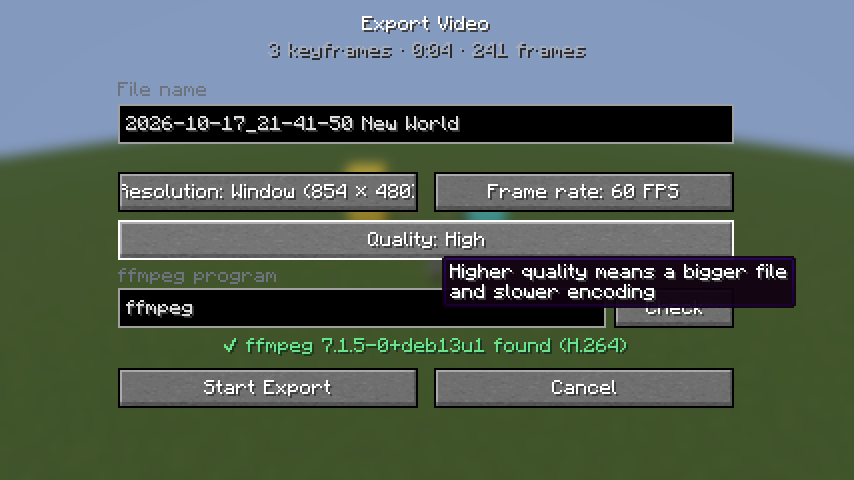
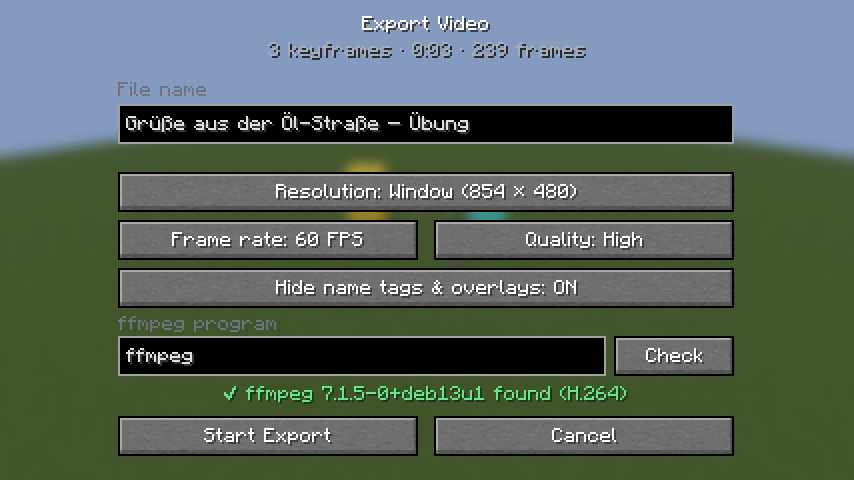
Docs for 1.1.0: README, ARCHITECTURE, PROGRESS, changelog, descriptions, gallery; version 1.1.0

Changed region(s): [[0.1218, 0.3438, 0.9438, 0.9688], [0.1522, 0.2188, 0.548, 0.2812], [0.5176, 0.0938, 0.6089, 0.125]]

diff --git a/README.md b/README.md
@@ -10,7 +10,9 @@ moment from any angle, fly cinematic camera paths and export them to MP4, all wi
   - Press **M** to add a marker ("that was a great moment"). Markers appear on the timeline.
   - Recording runs fully off-thread: packets are copied into pooled buffers and compressed and written by a background thread.
     When nothing is being recorded the cost is one volatile read per packet.
-  - If the game crashes, unfinished recordings are recovered on the next start.
+  - If the game crashes, unfinished recordings are recovered on the next start (tested by killing the game with
+    `SIGKILL` in the middle of a recording, see *Testing*).
+  - Pressing *Stop Recording* when nothing is recording tells you why and how to start one.
 - **Replay browser** (film-strip button on the title screen):
   - Thumbnails, world/server name, date, duration, size and marker count.
   - Watch, rename, delete (with confirmation) and open the folder.
@@ -18,6 +20,9 @@ moment from any angle, fly cinematic camera paths and export them to MP4, all wi
   - Play/pause, speed from 0.1× to 16×, a timeline you can scrub, and jumps of ±5 s.
   - Free camera with smooth flying.
   - **Click an entity or player to follow it**. Shift goes back to the free camera.
+  - **Everything works while paused**: look around with the mouse, fly, click entities to follow them. The world stays
+    frozen (like a paused singleplayer game) and the replay time does not move.
+  - Vanilla tutorial / onboarding toasts ("Press WASD", social interactions, "unsecure server") are not shown in replays.
 - **Camera path editor** (**O**):
   - Add keyframes with **I**. Each keyframe stores position, rotation, FOV and **roll**.
   - Catmull-Rom-style (non-uniform Hermite) splines give smooth motion even when keyframes are unevenly spaced.
@@ -25,6 +30,13 @@ moment from any angle, fly cinematic camera paths and export them to MP4, all wi
   - Click a keyframe to jump to it. Delete removes it.
 - **Video export** to MP4 (H.264 through `libx264`, with an automatic MPEG-4 fallback):
   - Rendered frame by frame at a fixed FPS, so output is smooth even on a slow PC.
+  - **Native resolution**: 1080p, 1440p or 4K are rendered at that size by the game itself (off-screen), whatever the
+    window size. The window just shows a scaled preview, and resizing it during an export is harmless.
+  - **Clean frames** (on by default): name tags, the block outline, the hand and debug views (hitboxes, chunk borders)
+    are left out of the video. HUD and menus are never in the video.
+  - Works with **Iris shader packs** (tested with MakeUp UltraFast on OpenGL).
+  - **ffmpeg is found automatically** in the usual places (PATH, WinGet, Scoop, Chocolatey, `C:\ffmpeg`, Homebrew,
+    MacPorts, or an `ffmpeg` folder inside `.minecraft`).
   - A progress screen shows ETA and a cancel button.
 - **Config screen** (also reachable through Mod Menu). English and German translations (German fully translated, including errors and Mod Menu texts; a unit test fails the build if any key is missing). Umlauts in world names, replay names and video file names work.
 
@@ -47,11 +59,13 @@ In the editor, **right-drag** looks around and **WASD** flies.
 ## Install
 
 1. Install Fabric Loader **0.19.5+** for Minecraft **26.3**, and **Fabric API 0.163.0+26.3**.
-2. Put `streamer-replay-mod-1.0.0.jar` into `.minecraft/mods`.
+2. Put `streamer-replay-mod-1.1.0.jar` into `.minecraft/mods`.
 3. Optional:
    - [Mod Menu](https://modrinth.com/mod/modmenu) to open the config from the mod list.
-   - **ffmpeg** for video export: either on your `PATH`, or set its full path in the config screen. The export screen
-     tells you whether ffmpeg was found.
+   - **ffmpeg** for video export. Install it the usual way (`winget install ffmpeg`, `brew install ffmpeg`, your
+     Linux package manager) or unzip it into `.minecraft/ffmpeg/`. It is found automatically, even when the
+     launcher does not see your terminal's PATH. You can also enter the full path. The export screen tells you
+     whether ffmpeg was found.
 4. Java 25 is required, the same as Minecraft 26.3 itself.
 
 Files are stored in:
@@ -61,26 +75,32 @@ Files are stored in:
 ## Compatibility
 
 - **Injections only**: no `@Overwrite`, no `@Redirect`. A small mixin set covers the connection tap, the login hook, the
-  game timer during replays, camera pose/FOV/roll, a post-render frame hook and the pause menu.
+  game timer during replays, camera pose/FOV/roll, a post-render frame hook, the pause menu, the render size during
+  export, the clean-frame switches (name tags, block outline, debug renderer) and toast filtering in replays.
 - **Idle cost is near zero**. Every hook first checks one static field and returns immediately when no replay is open.
 - **Mod Menu** is an optional integration. It is loaded only when present.
 - **Sodium 0.9.3-beta.1, Lithium 0.26.2 and Mod Menu 21.0.0** were tested together with this mod. The full end-to-end
   test passes with them installed (record, watch, seek, follow, camera path, MP4 export, dedicated-server recording).
-- **Iris 1.11.7** has **not been tested yet**. The test machine has no OpenGL driver, and Iris requires OpenGL.
-  The mod is designed to work with Iris:
-  - The camera is driven through `Camera` injections.
-  - The path preview is a 2D overlay that does not depend on the world renderer.
-  - Export reads back the final image after post effects.
+- **Iris 1.11.7 + Sodium 0.9.3-beta.1 with the MakeUp UltraFast 9.5g shader pack** pass the same end-to-end test on
+  OpenGL (Mesa llvmpipe software rendering, so it is slow but real): recording, replay, seeking, following, paused
+  controls, and MP4 export at window size and native 1080p with the shader visible in the frames.
+  Complementary Reimagined was downloaded too but is not part of the test run.
 - Report problems with an exact mod list.
 - The original *ReplayMod* is marked as `breaks`, because both mods tap the same network pipeline.
 
 ## Known limitations
 
-- A replay only starts at join time. You can't start recording in the middle of a session yet, except by rejoining.
-- Videos are rendered at window resolution and then scaled by ffmpeg. For crisp 1080p, make the window at least 1080p.
+- **Recording starts when you join a world.** Starting in the middle of a session is not supported on purpose: a
+  replay needs the world exactly as the server sent it at login (registries, chunks, entities), and rebuilding that
+  from the client's partial copy would give replays that look right but break when you seek. Leave and rejoin to
+  record; the game tells you this if you press *Stop Recording* while nothing is recorded.
 - Replays are only compatible with the protocol version they were recorded with (they are tagged with it).
-- Seeking backwards rebuilds the world from the start, then fast-forwards. On long replays this takes a moment, and
-  an overlay is shown while it runs.
+- **Seeking backwards rebuilds the world from the start**, then fast-forwards. Measured on the test machine (software
+  rendering): about 0.3–0.5 s for a 15 s and for a 93 s busy replay (40 mobs). Almost all of that is the fixed
+  reconnect and level-load cost; delivering packets takes about 1.3 ms per recorded second, so a one-hour replay
+  should take roughly 5 s (an estimate, not measured). Periodic checkpoints were considered and rejected: the client
+  world cannot be snapshotted and restored safely without re-creating every piece of client state.
+- The largest export size is limited by the GPU's maximum texture size (4K works on every current GPU).
 
 ## Is this safe? How can I check?
 
@@ -94,16 +114,16 @@ You don't need to take anyone's word for it:
 - **The only program it starts is ffmpeg**, on your own PC, and only when you click *Export Video*. You
   install ffmpeg yourself and can choose its path in the settings.
 - **Scan the jar yourself.** Go to <https://www.virustotal.com>, choose *File*, and upload
-  `streamer-replay-mod-1.0.0.jar`. Dozens of virus scanners check it at once. You can also paste the checksum
+  `streamer-replay-mod-1.1.0.jar`. Dozens of virus scanners check it at once. You can also paste the checksum
   below into VirusTotal's *Search* tab to see earlier scans of exactly this file.
 - **Make sure you have the original file.** Compare its SHA-256 checksum with the one published here and in
   the release notes:
-  - **Windows** (PowerShell): `Get-FileHash streamer-replay-mod-1.0.0.jar -Algorithm SHA256`
-  - **macOS / Linux**: `shasum -a 256 streamer-replay-mod-1.0.0.jar` or `sha256sum streamer-replay-mod-1.0.0.jar`
+  - **Windows** (PowerShell): `Get-FileHash streamer-replay-mod-1.1.0.jar -Algorithm SHA256`
+  - **macOS / Linux**: `shasum -a 256 streamer-replay-mod-1.1.0.jar` or `sha256sum streamer-replay-mod-1.1.0.jar`
 
   ```
-  SHA-256 (streamer-replay-mod-1.0.0.jar)
[1 lines of base64/hex data omitted]
+  SHA-256 (streamer-replay-mod-1.1.0.jar)
+  SHA256_PLACEHOLDER
   ```
 
   If the value differs, the file is not the official release. Delete it and download from the official
@@ -116,6 +136,26 @@ export JAVA_HOME=/path/to/java-25
 ./gradlew build                 # jar in build/libs, runs unit tests
 ./gradlew runClientGameTest     # full end-to-end client test (needs a display, e.g. Xvfb)
 ```
+
+## Testing
+
+What the automated tests cover (all run on Linux under Xvfb):
+
+- `./gradlew build`: unit tests for the file format, camera paths, time formatting, ffmpeg discovery on
+  Windows/macOS/Linux (simulated file systems), and a check that German has every English key.
+- `./gradlew runClientGameTest`: one end-to-end client test: records a singleplayer world, renames, opens, seeks,
+  follows entities, uses mouse look/flight/clicks while paused, builds a camera path, exports MP4 at window size and
+  at native 1080p (checked with ffprobe and a sharpness measurement), exports with clean frames on and off and
+  compares the frames, records a dedicated server, and checks that every label fits its button.
+  - `-PgametestLang=de_de` runs it in German.
+  - `-PcompatMods=a.jar,b.jar` adds other mods (Sodium, Lithium, Mod Menu, Iris).
+  - `-PshaderPack=pack.zip` installs and enables a shader pack (with Iris). On a box without a GPU this needs
+    `SDL_VIDEO_FORCE_EGL=1 LIBGL_ALWAYS_SOFTWARE=1` (Mesa llvmpipe).
+  - `-PgametestProps=streamerreplay.gametest.mode=seekbench` records a 93 s replay and measures seeks.
+- `scripts/crash-recovery-test.sh`: records, kills the game with `SIGKILL`, starts it again and checks the replay
+  was recovered with its marker and plays.
+
+Not tested automatically: real Windows and macOS machines, real GPUs (NVIDIA/AMD/Intel/Apple), Vulkan with Iris.
 
 ## License
 

diff --git a/PROGRESS.md b/PROGRESS.md
@@ -4,30 +4,34 @@ Target: Minecraft 26.3, Fabric Loader 0.19.5, Fabric API 0.163.0+26.3, Loom 1.18
 Build: `export JAVA_HOME=/usr/lib/jvm/java-25-openjdk-amd64; ./gradlew build --no-daemon`. The jar is copied to `dist/`.
 
 E2E test: `DISPLAY=:99 timeout 900 ./gradlew runClientGameTest --no-daemon`. Add `-PcompatMods=a.jar,b.jar` for a compat run.
-Screenshots: `build/run/clientGameTest/screenshots`, copied to `screenshots/` (and `screenshots/compat-sodium-lithium-modmenu/`).
+Screenshots: `build/run/clientGameTest/screenshots`, copied to `screenshots/`, `screenshots/de_de/`, `screenshots/compat-*/`, `screenshots/crash-recovery/`.
 
-## Status: release candidate 1.0.0
-- Unit tests: 21 (format, recovery, splines, time format, translations: de_de has every en_us key, matching placeholders, every key used in code exists).
-- The e2e client gametest passes on its own and with Sodium 0.9.3-beta.1, Lithium 0.26.2 and Mod Menu 21.0.0. It covers:
-  - SP auto-record, marker, thumbnail, browser, settings
-  - replay open, seek forward/back, click-ray follow and unfollow, Esc replay menu
-  - camera path (3 keyframes) and editor overlay
-  - MP4 export (H.264) to DONE, video > 10 KB
-  - dedicated-server recording (TCP, compression 64) and its playback containing server-placed blocks
-  - return to the title screen
-  - every main screen checks that each label fits its widget and that widgets do not overlap (browser, rename, settings, replay menu, editor, export, export done)
-  - umlaut names: world "Prüfwelt Äöü ß", rename to "Grüße aus der Öl-Straße – Übung", export to "Kamerafahrt Übung.mp4"
-- German run (`-PgametestLang=de_de`) passes too, also with Sodium + Lithium + Mod Menu. Screenshots: `screenshots/de_de/`, `screenshots/compat-sodium-lithium-modmenu-de_de/`.
-- Docs: README (features, controls, install, safety/checksum, compat, limits), ARCHITECTURE.md, LICENSE (MIT).
-- Publish kit: `publish/` (descriptions EN + DE short, summary, tags, changelog, gallery, 512px icon, jar, SHA256SUMS).
+## Status: 1.1.0 (perfection pass done)
+- Unit tests: 31 (format, recovery, splines, time format, translations, ffmpeg discovery for Windows/macOS/Linux).
+- E2E client gametest passes in four configurations (runs of 2026-10-17, 23:13–23:20 CEST):
+  vanilla EN, vanilla DE (`-PgametestLang=de_de`, label fit ok on every screen), Sodium 0.9.3-beta.1 + Lithium 0.26.2 +
+  Mod Menu 21.0.0, and Iris 1.11.7 + Sodium + MakeUp UltraFast 9.5g on OpenGL 4.6 (Mesa llvmpipe, `SDL_VIDEO_FORCE_EGL=1`).
+  On top of the 1.0.0 coverage it checks:
+  - paused replay: mouse look (SDL relative motion event), W flight, real left click follows the pig, Shift unfollows,
+    replay time unchanged, backward seek while paused leaves the loading screen and stays paused
+  - onboarding toasts suppressed in replays
+  - "Stop Recording" without recording shows the rejoin hint
+  - native 1080p export from an 854×480 window, window resized to 700×520 mid-export, harness screenshot (extra render
+    at window size) mid-export: ffprobe `h264,1920,1080`; sharpness (Laplacian variance) native 123.8 vs same frame
+    through 480p 16.6 (ratio 7.5; with Iris 3.4); mean luma > 40 and sky colour known after the world rebuild
+  - clean frames: hitboxes + name tag on vs. off, ~7500 px differ (5562 with Iris); frames in `screenshots/export-evidence/`
+- `scripts/crash-recovery-test.sh`: SIGKILL of the game JVM mid-recording, restart, recovered `.sreplay` with world
+  name and marker, sidecars cleaned up, replay plays (13 s). Passes.
+- Seek benchmark (`-PgametestProps=streamerreplay.gametest.mode=seekbench`, 93 s replay, 40 mobs, 343 KB):
+  98%→90% 511 ms, 98%→50% 441 ms, 98%→10% 436 ms, 10%→98% 136 ms (25 ms budget); a 100 ms budget was not faster.
 
 ## Not tested / open
-- Iris: the box has no GLX visual (OpenGL), so Iris aborts at startup in this environment, with or without this mod.
-  The game itself ran on the Vulkan backend (llvmpipe).
-- The OpenGL backend in general (same reason); all runs used Vulkan.
-- Real mouse clicks and key presses: the test drives the same code paths from code.
-- Windows/macOS ffmpeg discovery (only Linux ffmpeg 7.1.5 used).
-- Very long replays (hours): reading is streamed, but seeking backwards rebuilds from the start, which costs time.
+- Real Windows/macOS machines (ffmpeg discovery is unit-tested with simulated disks only).
+- Real GPUs; all runs used software rendering (Vulkan llvmpipe, or OpenGL llvmpipe for Iris).
+- Iris on Vulkan, other shader packs than MakeUp UltraFast (Complementary is downloaded but not run).
+- 1440p/4K exports (same code path as 1080p, only 1080p was run).
+- Replays of hours: seek time extrapolated (~5 s/hour), not measured.
+- The compat DE screenshot folder (`screenshots/compat-sodium-lithium-modmenu-de_de/`) is from the 1.0.0 run.
 
 ## Review log
 1. **After first compile and e2e run.**
@@ -69,7 +73,23 @@ Screenshots: `build/run/clientGameTest/screenshots`, copied to `screenshots/` (a
    - Overflow found and fixed: settings "Serveradresse speichern" (became "Server-IP speichern"). In the editor, "Replay beenden" moved to the top right and buttons now size to their labels. On the export screen, resolution got its own full-width row.
    - The editor hint moves up one line if it would collide with the path info.
 
-## Publishing (needs the user)
-- GitHub: not created or pushed by the agent (needs explicit user approval). Command:
-  `gh repo create robb-devo/streamer-replay-mod --private --source=/workspace/streamer-replay-mod --remote=origin --push`
-- Modrinth/CurseForge: the user uploads `publish/streamer-replay-mod-1.0.0.jar` with the texts in `publish/`.
+7. **1.1.0 perfection pass** (each item reviewed after implementing it).
+   - Paused interaction: replaced the 20 Hz "UI ticks" with real frozen game ticks (paused-tick semantics). Found and
+     fixed: the left click was eaten by vanilla's tick before our handler (now handled in the pre-attack callback).
+   - Clean frames: the first version had no effect because the new mixins were not registered; caught by the
+     frame-comparison test.
+   - Native resolution: found a black sky after the world rebuild at the start of an export (the sky/fog probe is
+     only ticked in unpaused ticks) and fixed it; found that a render at another size (screenshot) failed the
+     export and made it skip such renders instead.
+   - Backward seek: found that a paused replay stayed on the loading screen forever after seeking back (the
+     level-load tracker is only ticked by the game mode in unpaused ticks). Fixed, with a regression check.
+     Measured seek costs; a larger delivery budget did not help and was removed; checkpoints rejected (see ARCHITECTURE).
+   - Recording mid-session: rejected as not robust; a clear hint instead.
+   - Crash test: found that the "recordings restored" toast showed a raw key when created during start-up resource
+     loading; toasts are now queued until loading has finished.
+   - ffmpeg discovery: pure, unit-tested `FfmpegLocator`; custom paths are respected as typed (quotes stripped, `.exe` added).
+   - OpenGL: Xvfb GLX has no sRGB-capable visual, which the game requests; EGL works (`SDL_VIDEO_FORCE_EGL=1`).
+
+## Publishing
+- GitHub: https://github.com/robb-devo/streamer-replay-mod (private), pushed after every step.
+- Modrinth/CurseForge: the user uploads `publish/streamer-replay-mod-1.1.0.jar` with the texts in `publish/`.

diff --git a/ARCHITECTURE.md b/ARCHITECTURE.md
@@ -62,11 +62,22 @@ compatible (the game does its normal work, so render mods such as Sodium still a
 3. **Replay clock.** `ReplayClock` decides the current replay time and supports play/pause, speed and jumps.
    Each frame, all messages up to that time are delivered. Game ticks (animations, entity movement) are derived
    from replay time rather than wall time, so pause and slow motion affect the world but not the menus.
+   - **Paused or very slow:** the game still runs one "frozen" tick every 50 ms, marked as a paused tick, exactly
+     like a paused singleplayer game. Menus, key bindings, mouse look, flying and clicks keep working, but entities,
+     block animations and textures stand still. Two things vanilla only updates in unpaused ticks are fed by hand
+     in a frozen tick: the sky/fog colour probe (or the sky turns black after a world rebuild) and the level-load
+     tracker (or the loading screen after a backward seek would never close).
+   - Vanilla tutorial and onboarding toasts are filtered out while a replay is open (`ToastManagerMixin`).
 4. **Seeking.**
    - Forward: the session delivers the messages in between quickly.
    - Backward: the session rebuilds the world from the start and fast-forwards. The messages describe *changes*,
      so there is no other way to go back in time. An overlay shows while this runs, and your camera position and
      any open editor are restored afterwards.
+   - Measured: ~0.3–0.5 s, almost all of it the fixed reconnect + level-load cost; packet delivery is ~1.3 ms per
+     recorded second. A bigger per-frame delivery budget during seeks was tried and was not faster, so it was dropped.
+   - Checkpoints (periodic snapshots to jump back to) were rejected: the client's world (chunks with light, entities
+     with their data, block entities, scoreboards, boss bars, maps, the player list, registries) cannot be copied and
+     restored safely, and a half-correct snapshot is worse than a slower correct rebuild.
 5. **Camera.** `ReplayCamera` flies smoothly with WASD and the mouse.
    - Clicking an entity follows it, using `EntityPicker`, a long-range ray from the camera.
    - Shift goes back to the free camera.
@@ -92,11 +103,23 @@ compatible (the game does its normal work, so render mods such as Sodium still a
    - places the camera on the path
    - waits until the world has finished building
    - captures the image
-2. **Capture.** The image is copied from the graphics card into a reusable buffer. Up to 3 frames are in flight, so the
+   - skips any render that is not at the export size (for example a screenshot tool rendering at window size)
+2. **Native resolution.** `RenderResolution` tells the game its framebuffer has the export size (for example 1920×1080),
+   so the world, post effects, shader packs and GUI all render at that size into the normal main target. Only the very
+   last step changes: the finished image is scaled down to the real window for the on-screen preview. A window resize
+   only re-applies the virtual size. Sizes above the GPU's texture limit are clamped and scaled by ffmpeg.
+3. **Clean frames.** `CleanFrames` is on while an export with "hide name tags & overlays" runs. Small hooks then
+   drop name tags (`EntityRendererMixin`), the block outline (`LevelExtractorMixin`) and debug gizmos such as hitboxes
+   (`DebugRendererMixin`), and mark the HUD hidden (which also hides the hand). The 2D HUD and menus are never in the
+   video anyway, because the image is captured right after the world and its post effects, before the GUI.
+4. **Capture.** The image is copied from the graphics card into a reusable buffer. Up to 3 frames are in flight, so the
    graphics card and the CPU work at the same time.
-3. **Encode.** `FfmpegEncoder` pipes the raw frames to an external ffmpeg process on its own writer thread. It uses H.264
+5. **Encode.** `FfmpegEncoder` pipes the raw frames to an external ffmpeg process on its own writer thread. It uses H.264
    (`libx264`) when available and MPEG-4 otherwise. Next to the video it writes a log file, for troubleshooting.
-4. Export runs at whatever speed your PC manages, while the video plays back smoothly at the chosen FPS.
+   `FfmpegLocator` finds ffmpeg when the setting is just `ffmpeg`: PATH first, then a copy in the game folder, then
+   where WinGet, Scoop, Chocolatey, Homebrew and MacPorts put it. That matters because launchers often do not see the
+   PATH of the user's terminal. It only checks which files exist; it never downloads or runs anything else.
+6. Export runs at whatever speed your PC manages, while the video plays back smoothly at the chosen FPS.
    Cancelling deletes the half-written file.
 
 ## User interface
@@ -121,10 +144,17 @@ compatible (the game does its normal work, so render mods such as Sodium still a
 
 ## Testing
 
-- **Unit tests** (`./gradlew test`) cover the file format, recovery, splines and time formatting.
+- **Unit tests** (`./gradlew test`) cover the file format, recovery, splines, time formatting, ffmpeg discovery on
+  Windows/macOS/Linux (with a simulated disk) and that German has every English key.
 - **End-to-end client test** (`./gradlew runClientGameTest`) starts the real game and checks the whole flow, taking
   screenshots along the way:
   - records singleplayer and a real dedicated server
   - browses, watches, seeks and follows an entity
   - builds a camera path and exports a video
-- Add `-PcompatMods=a.jar,b.jar` to run the same test with other mods loaded, for example Sodium, Iris and Lithium.
+  - uses mouse look, flying and clicks while paused
+  - exports at native 1080p (checked with ffprobe and a sharpness measure) and with clean frames on/off (frames compared)
+- Add `-PcompatMods=a.jar,b.jar` to run the same test with other mods loaded, for example Sodium, Iris and Lithium,
+  and `-PshaderPack=pack.zip` to enable an Iris shader pack.
+- `scripts/crash-recovery-test.sh` kills the game with SIGKILL mid-recording, restarts it and checks the recovered replay.
+- Recording a session that is already running is deliberately not supported (see README, *Known limitations*); the
+  game explains how to record instead.

diff --git a/publish/description.md b/publish/description.md
@@ -17,11 +17,15 @@ the clip *after* it happened, without having to plan for it.
   - Play/pause (**K**), ±5 s (**← / →**), speed from 0.1× to 16×.
   - A timeline you can scrub.
 - **Free camera.** Fly anywhere. **Click any player or mob to follow them** (Shift returns to the free camera).
+  All of this also works **while paused**: the world freezes, you keep looking around, flying and picking targets.
 - **Camera path editor** (**O**):
   - Add keyframes (**I**). Each one stores position, rotation, FOV and **camera roll**.
   - Paths are smooth, drawn over the world while editing and previewed in real time.
 - **Video export to MP4** (H.264 via ffmpeg):
   - Rendered frame by frame, so the video is perfectly smooth even when your PC is not.
+  - **Real 1080p, 1440p or 4K**, rendered at that size whatever your window size.
+  - **Clean frames** by default: no name tags, block outline, hand or debug overlays in the video.
+  - Works with **Iris shader packs**.
   - A progress screen shows the ETA and has a cancel button.
 - **Crash-safe.** If the game crashes mid-recording, the replay is recovered on the next start.
 - **Settings screen** (also via Mod Menu), in **English and German**. Every text, including errors, is translated natively, and umlauts in replay and video names work.
@@ -33,14 +37,15 @@ the clip *after* it happened, without having to plan for it.
     There is no stutter and no per-packet garbage.
   - With nothing recording or replaying, the mod's hooks cost practically nothing.
 - **Compatibility-friendly.** It uses only small, targeted mixin injections. Integrations are optional and guarded.
-  The full end-to-end test (record, watch, follow, camera path, export, multiplayer) passes with **Sodium, Lithium and Mod Menu** installed.
-  It is designed to work with Iris, but that has not been tested yet; feedback is welcome.
+  The full end-to-end test (record, watch, follow, camera path, export, multiplayer) passes with **Sodium, Lithium and Mod Menu** installed,
+  and with **Iris + Sodium and the MakeUp UltraFast shader pack** on OpenGL (software rendering on the test machine).
 - **Private by default.** The server address is *not* stored in replays unless you enable it.
 
 ## 🎬 Video export needs ffmpeg
 
 The mod does not include ffmpeg. Install it (e.g. `winget install ffmpeg`, `brew install ffmpeg`, or your Linux package manager)
-or point the settings to `ffmpeg.exe`. The export screen tells you whether ffmpeg was found. Recording and watching
+or unzip it into `.minecraft/ffmpeg`. It is found automatically (PATH, WinGet, Scoop, Chocolatey, Homebrew, MacPorts),
+or you can point the settings to `ffmpeg.exe`. The export screen tells you whether ffmpeg was found. Recording and watching
 work without ffmpeg.
 
 ## 🎮 Controls (all rebindable)
@@ -62,8 +67,8 @@ work without ffmpeg.
 
 ## ⚠ Notes
 
-- Recording starts at join, so to record an ongoing session, rejoin.
-- Videos are rendered at your window size and scaled to the chosen resolution. Use a large window for crisp 1080p.
+- Recording starts at join, so to record an ongoing session, rejoin (the game tells you this).
+- Seeking backwards rebuilds the world; it takes well under a second for typical replays.
 - Replays play back on the same Minecraft version they were recorded on.
 - Not compatible with the original ReplayMod. Both tap the same network pipeline, so use one or the other.
 - Respect server rules. Some servers do not allow recording.
@@ -83,4 +88,4 @@ MIT, open source: https://github.com/robb-devo/streamer-replay-mod
 - **Open source.** The full code is on GitHub.
 - **No network connections, no telemetry.** The only program the mod ever starts is your own ffmpeg, and only when you export a video.
 - **Verify the file.** Check it on [VirusTotal](https://www.virustotal.com) and compare its SHA-256 checksum:
[1 lines of base64/hex data omitted]
+  `SHA256_PLACEHOLDER`

diff --git a/publish/CHANGELOG.md b/publish/CHANGELOG.md
@@ -1,5 +1,28 @@
 # Changelog
 
+## 1.1.0 (Minecraft 26.3, Fabric)
+
+- **Paused replays are fully interactive**: mouse look, flying and click-to-follow work while paused. The world stays
+  frozen and the replay time does not move.
+- **Native-resolution export**: 1080p, 1440p and 4K are rendered by the game at that size, off-screen, whatever the
+  window size. Resizing the window during an export no longer breaks it.
+- **Clean frames** (new export option, on by default): hides name tags, the block outline, the hand and debug views
+  (hitboxes, chunk borders) in the video.
+- **Iris shader packs are tested**: Iris 1.11.7 + Sodium with MakeUp UltraFast pass the full test on OpenGL, export included.
+- **ffmpeg is found automatically** in PATH, WinGet, Scoop, Chocolatey, `C:\ffmpeg`, Homebrew, MacPorts or `.minecraft/ffmpeg`,
+  even when the launcher does not see your PATH.
+- Vanilla tutorial and onboarding toasts are no longer shown during replays.
+- *Stop Recording* without a running recording now explains how to start one (recordings start when you join).
+- Fixes:
+  - A backward seek while paused no longer gets stuck on the loading screen.
+  - The sky no longer turns black after a world rebuild while paused or exporting.
+  - The "recordings restored" message no longer shows a raw text key when it appears during start-up.
+- Tests: a real crash test (the game is killed with SIGKILL while recording, then the replay is recovered and played),
+  unit tests for ffmpeg discovery on Windows/macOS/Linux, and a seek benchmark.
+
+**SHA-256** of `streamer-replay-mod-1.1.0.jar`:
+`SHA256_PLACEHOLDER`
+
 ## 1.0.0 (first release, Minecraft 26.3, Fabric)
 
 - Automatic recording in singleplayer and multiplayer, with a REC indicator, markers (M) and crash recovery.

diff --git a/publish/description_de_short.md b/publish/description_de_short.md
@@ -5,8 +5,9 @@
 - Nimmt in Einzel- und Mehrspieler automatisch auf. Ein REC-Badge zeigt die Aufnahme an (ausblendbar), **M** setzt Markierungen.
 - Replay-Browser mit Vorschaubildern, Umbenennen und Löschen.
 - Abspielen wie ein Video: **K** Pause, **← / →** ±5 s, Tempo 0,1× bis 16×, Zeitleiste zum Ziehen.
-- Freie Kamera. **Klick auf Spieler oder Mob = folgen**.
+- Freie Kamera. **Klick auf Spieler oder Mob = folgen**. Klappt auch in der Pause: Umsehen, Fliegen, Folgen.
 - Kamerafahrten-Editor (**O**, **I**) mit FOV und Neigung (Roll), mit Live-Vorschau.
-- MP4-Export (H.264 über ffmpeg), ruckelfrei Bild für Bild gerendert.
+- MP4-Export (H.264 über ffmpeg), ruckelfrei Bild für Bild gerendert – echt in 1080p, 1440p oder 4K, egal wie groß das Fenster ist. Namensschilder, Hand und Debug-Overlays bleiben auf Wunsch draußen (Standard). Getestet mit Iris-Shadern.
+- ffmpeg wird automatisch gefunden (PATH, WinGet, Scoop, Chocolatey, Homebrew, MacPorts oder `.minecraft/ffmpeg`).
 - Absturzsicher und ressourcenschonend. Keine Netzwerkverbindungen, keine Telemetrie.
 - Deutsch und Englisch. Benötigt Fabric API. Nur Client.

diff --git a/publish/tags.md b/publish/tags.md
@@ -19,4 +19,4 @@ minigame, mobs, optimization, social, storage, technology, transportation, utili
 Suggested: `Utility & QoL`, `Miscellaneous`.
 
 ## Keywords
-replay, recording, camera, cinematic, video, export, streamer, ffmpeg, timeline, spectator
+replay, recording, camera, cinematic, video, export, streamer, ffmpeg, timeline, spectator, 4k, shaders, iris
